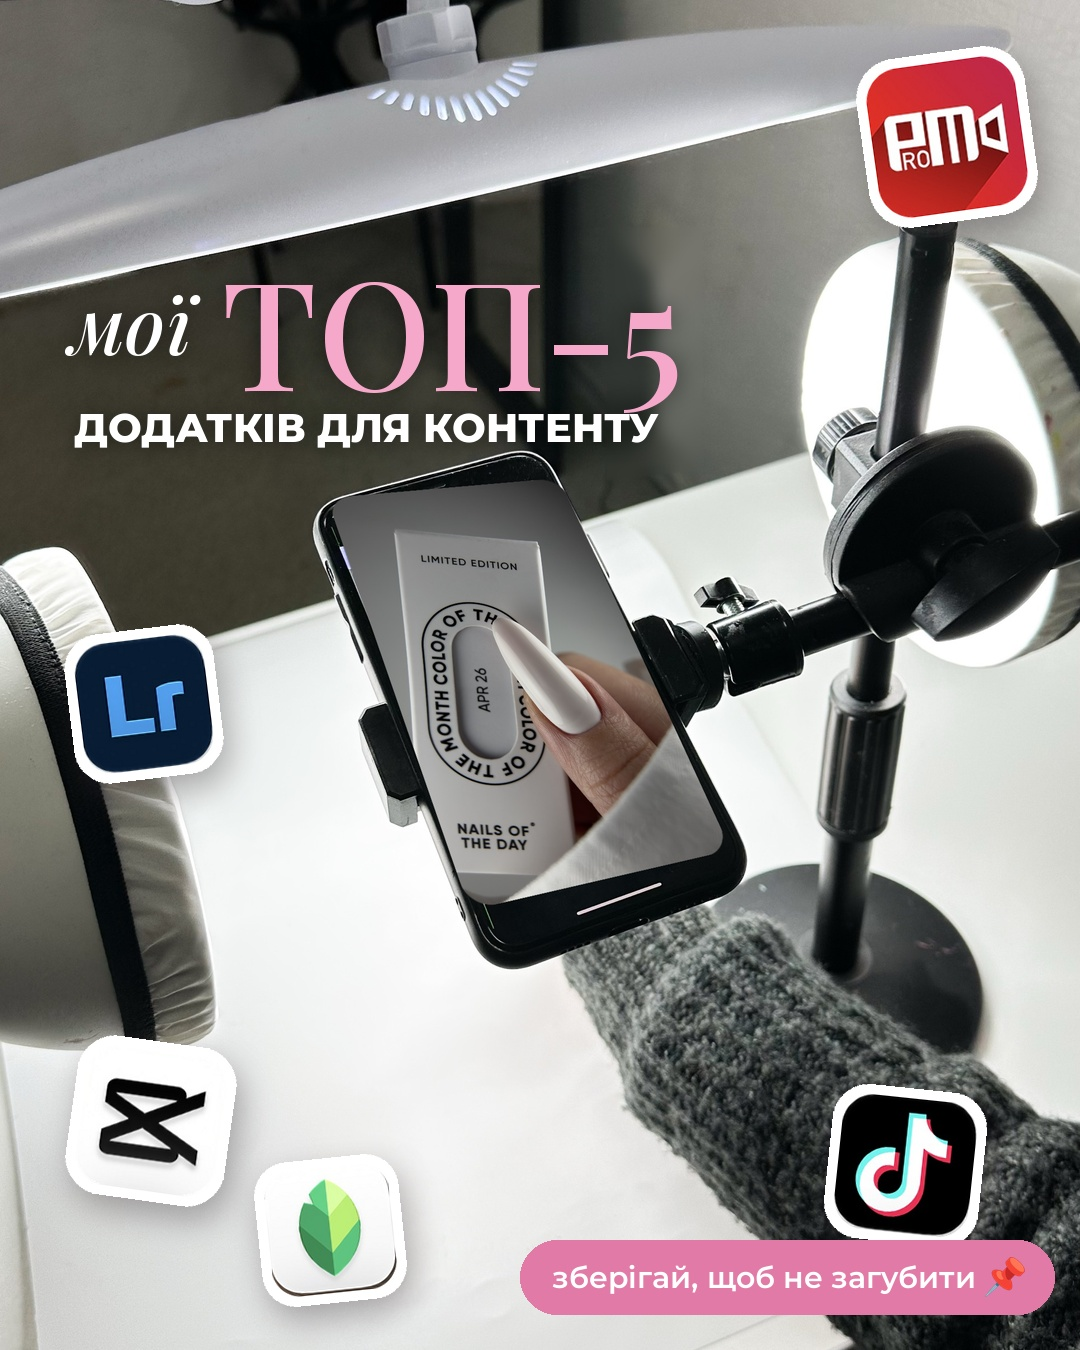
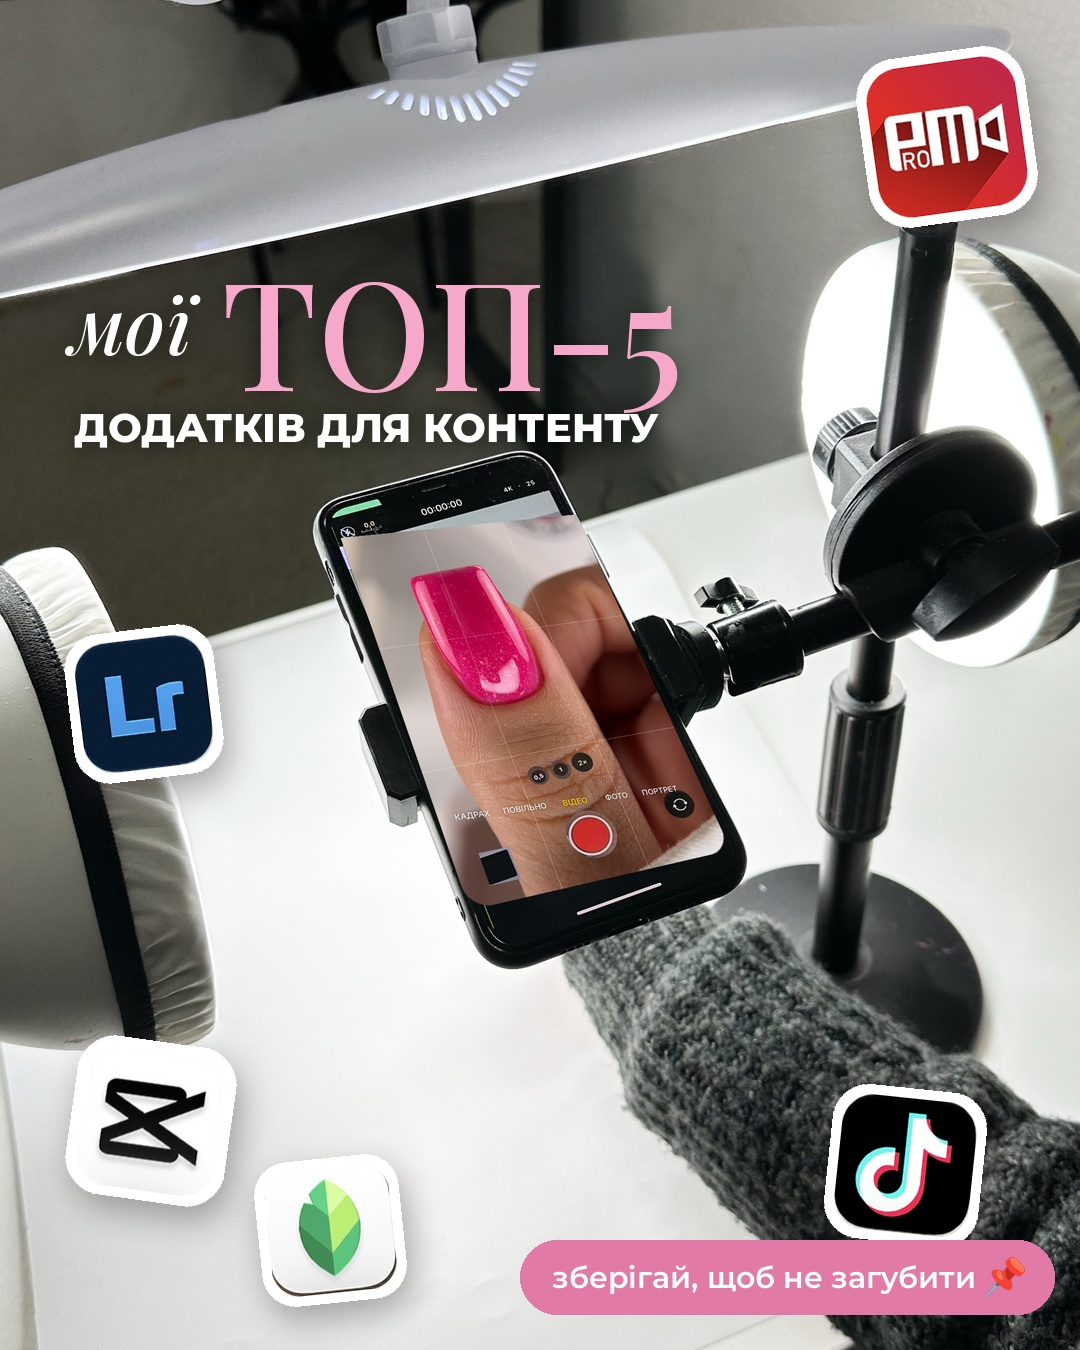
Apps cover: pink nail on camera screen with UI
Claude-Session: https://claude.ai/code/session_0191xVL2hi5vHUvM1ix6pauC

Changed region(s): [[0.3056, 0.3422, 0.6722, 0.6844]]

diff --git a/karusel_dodatky/build_screen.py b/karusel_dodatky/build_screen.py
@@ -1,0 +1,36 @@
+import sys, os, cv2, numpy as np
+from PIL import Image, ImageDraw, ImageFont, ImageFilter
+R,U,OUTP,CROP=sys.argv[1],sys.argv[2],sys.argv[3],[int(v) for v in sys.argv[4].split(',')]
+bg=cv2.imread(f'{R}/karusel_dodatky/setup_clean.jpg')
+FW,FH=1000,1800
+src=np.float32([[584,962],[1000,926],[1308,1592],[840,1700]]); dstf=np.float32([[0,0],[FW,0],[FW,FH],[0,FH]])
+M=cv2.getPerspectiveTransform(src,dstf); flat=cv2.cvtColor(cv2.warpPerspective(bg,M,(FW,FH)),cv2.COLOR_BGR2RGB)
+orig=Image.fromarray(flat); new=orig.copy()
+nail=Image.open(f'{U}/90c1111e-image.png').convert('RGB').crop(tuple(CROP))
+top=205; ph=FH-top
+s=max(FW/nail.width,ph/nail.height); n=nail.resize((round(nail.width*s),round(nail.height*s)),Image.LANCZOS)
+ox=(n.width-FW)//2; n=n.crop((ox,0,ox+FW,ph)); new.paste(n,(0,top))
+d=ImageDraw.Draw(new,'RGBA')
+for x in (333,667): d.line([(x,top),(x,FH)],fill=(255,255,255,90),width=2)
+for y in (top+ph//3,top+2*ph//3): d.line([(0,y),(FW,y)],fill=(255,255,255,90),width=2)
+def copy_circle(cx,cy,r):
+    m=Image.new('L',(FW,FH),0); ImageDraw.Draw(m).ellipse((cx-r,cy-r,cx+r,cy+r),fill=255); new.paste(orig,(0,0),m)
+for cx,cy,r in [(405,1362,38),(495,1357,38),(585,1342,40),(512,1625,92),(882,1582,58)]: copy_circle(cx,cy,r)
+m=Image.new('L',(FW,FH),0); ImageDraw.Draw(m).rectangle((95,1608,205,1730),fill=255); new.paste(orig,(0,0),m)
+fp='/usr/share/fonts/opentype/inter/Inter-Medium.otf'
+f=ImageFont.truetype(fp if os.path.exists(fp) else '/usr/share/fonts/opentype/inter/Inter-Regular.otf',30)
+L=Image.new('RGBA',(FW,FH),(0,0,0,0)); dl=ImageDraw.Draw(L)
+for t,cx,col in [('КАДРАХ',120,(255,255,255,230)),('ПОВІЛЬНО',312,(255,255,255,230)),('ВІДЕО',500,(255,204,0,255)),('ФОТО',660,(255,255,255,230)),('ПОРТРЕТ',832,(255,255,255,230))]:
+    tw=dl.textlength(t,font=f); dl.text((cx-tw/2,1472),t,font=f,fill=col)
+L=L.rotate(-4,center=(500,1490),resample=Image.BICUBIC)
+sh=L.split()[3].filter(ImageFilter.GaussianBlur(4)).point(lambda v:int(v*0.5)); new.paste((0,0,0),(0,0),sh); new.paste(L,(0,0),L)
+nf=cv2.cvtColor(np.array(new),cv2.COLOR_RGB2BGR)
+Mi=cv2.getPerspectiveTransform(dstf,src); back=cv2.warpPerspective(nf,Mi,(bg.shape[1],bg.shape[0]))
+mask=np.zeros((FH,FW),np.uint8); r=90
+cv2.rectangle(mask,(r,0),(FW-r,FH),255,-1); cv2.rectangle(mask,(0,r),(FW,FH-r),255,-1)
+for cx,cy in [(r,r),(FW-r,r),(r,FH-r),(FW-r,FH-r)]: cv2.circle(mask,(cx,cy),r,255,-1)
+mask[:top-5,:]=0
+mw=cv2.warpPerspective(mask,Mi,(bg.shape[1],bg.shape[0])); mw=cv2.GaussianBlur(mw,(3,3),0).astype(float)[...,None]/255
+out=(back*mw+bg*(1-mw)).astype(np.uint8)
+cv2.imwrite(f'{R}/karusel_dodatky/setup_screen.jpg',out,[cv2.IMWRITE_JPEG_QUALITY,95])
+cv2.imwrite(OUTP,cv2.resize(out[850:1800,500:1400],(600,633)))
